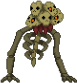
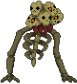
Modified enemy spawn

diff --git a/src/model/room/RoomBuilderImpl.java b/src/model/room/RoomBuilderImpl.java
@@ -17,10 +17,10 @@ public class RoomBuilderImpl implements RoomBuilder {
     private final DoorFactory doorFactory = new DoorFactoryImpl();
     private final ObstacleFactory obstaclesFactory = new ObstaclesFactoryImpl(); 
     private final EnemyFactory enemyFactory = new EnemyFactoryImpl();
-    private final List<Point2D> avaiableEnemyPosition = new LinkedList<>(List.of(new Point2D(254, 200), 
-                                                                                new Point2D(940, 200), 
-                                                                                new Point2D(254, 550), 
-                                                                                new Point2D(940, 550)));
+    private final List<Point2D> avaiableEnemyPosition = new LinkedList<>(List.of(new Point2D(260, 200), 
+                                                                                new Point2D(930, 200), 
+                                                                                new Point2D(260, 540), 
+                                                                                new Point2D(930, 540)));
     private Room room;
     private boolean isInitialize = false;
     private boolean build = false;

diff --git a/src/gamestructure/game/GameViewImpl.java b/src/gamestructure/game/GameViewImpl.java
@@ -179,7 +179,6 @@ public class GameViewImpl implements GameView, KeyListener {
     public void addSprite(final Integer id, final GameObjectType gameObjectType, final Point2D position) {
         final Map<State, List<ImageIcon>> stateMap = new HashMap<>(resourceLoader.getStateImages(gameObjectType));
         final Animation an = new Animation();
-        final Image img = stateMap.get(State.IDLE).get(0).getImage();
         an.setPosition(position);
         stateMap.keySet().forEach(s -> {
             an.addState(s, new SpriteIterator(stateMap.get(s).stream()
